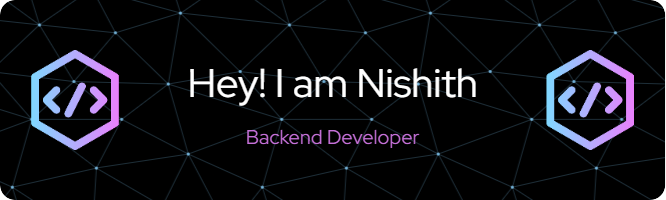
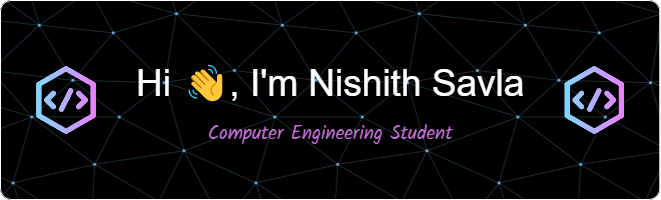
:memo: Add Header Image and change currently learning

diff --git a/README.md b/README.md
@@ -1,13 +1,13 @@
-<h1 align="center">Hi 👋, I'm Nishith Savla</h1>
-<h3 align="center">A passionate computer engineering student from India</h3>
+<img alt="Header" src="./github-header-image.png" />
+<br/>
 
 <p align="left"> <img src="https://komarev.com/ghpvc/?username=nishith-savla&label=Profile%20views&color=0e75b6&style=flat" alt="Profile Views" /> </p>
 
 <p align="left"> <a href="https://github.com/ryo-ma/github-profile-trophy"><img src="https://github-profile-trophy.vercel.app/?username=nishith-savla&title=Commit,Stars,Followers,Repositories,Issues,PullRequest" alt="nishith-savla" /></a> </p>
 
-- 🌱 I’m currently learning **React JS**
+- 🌱 I’m currently learning **GoLang**
 
-- 💬 Ask me about **Javascript, React JS, Python, Selenium, Git, Linux**
+- 💬 Ask me about **Javascript, React JS, Python, Selenium, Git, Linux, GoLang**
 
 - 📫 How to reach me **nishithsavla005+github@gmail.com**
 
@@ -27,5 +27,4 @@
 
 <p>&nbsp;<img align="center" src="https://github-readme-stats.vercel.app/api?username=nishith-savla&show_icons=true&locale=en" alt="nishith-savla" /></p>
 
-<p><img align="center" src="https://github-readme-streak-stats.herokuapp.com/?user=nishith-savla&" alt="nishith-savla" /></p>
-
+<p><img align="center" src="https://github-readme-streak-stats.herokuapp.com/?user=nishith-savla" alt="nishith-savla readme streak stats" /></p>
